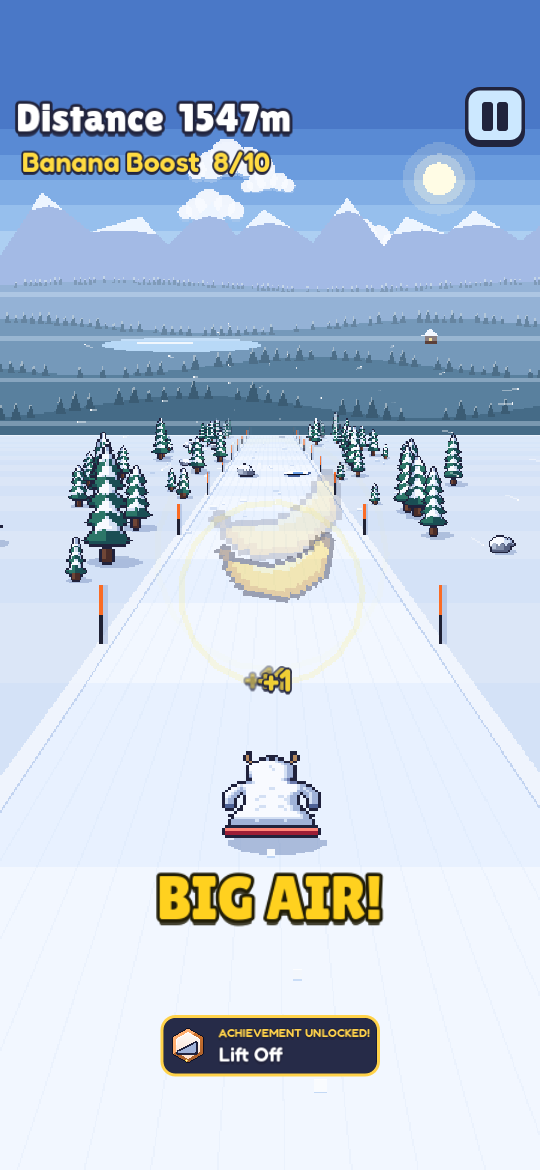
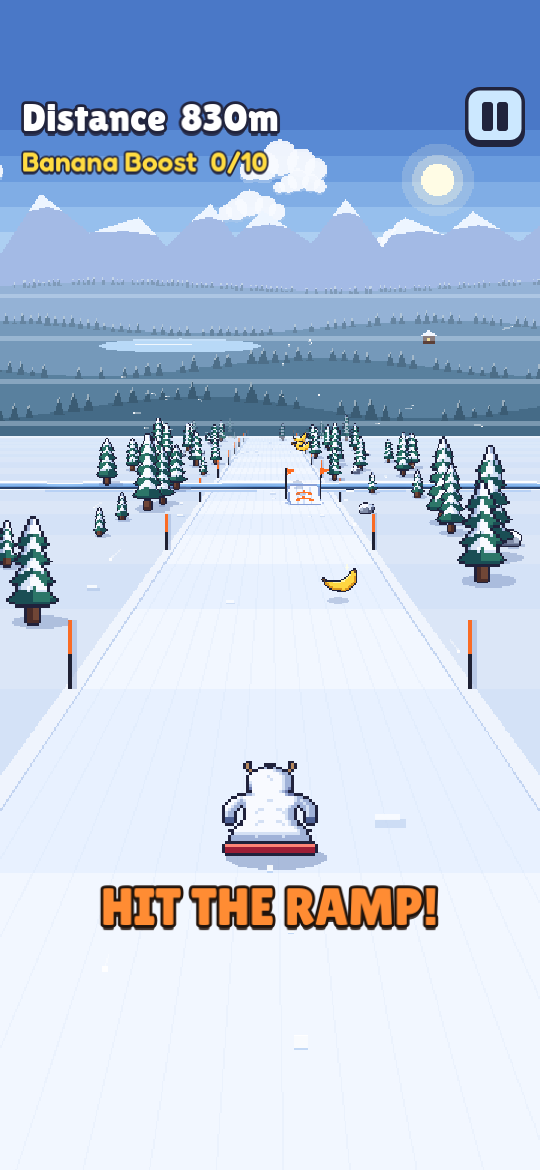
Cleaner screenshots: no pickup effects or popups (ramp set piece up top, one hole below)

diff --git a/index.html b/index.html
@@ -51,14 +51,14 @@
         <p class="pitch">A pixel-art downhill runner for iPhone and Android. Tap left, tap right, try not to hit the tree.</p>
         <span class="pill">Coming soon to the App Store &amp; Google Play</span>
       </div>
-      <div class="ha-phone"><img class="pixel" src="img/gameplay_hero.png" alt="Oh Yeti! gameplay: the yeti catching big air off a ramp, grabbing a banana arc" width="540" height="1170"></div>
+      <div class="ha-phone"><img class="pixel" src="img/gameplay_hero.png" alt="Oh Yeti! gameplay: a jump ramp ahead with a banana arc over the crevasse behind it" width="540" height="1170"></div>
     </div>
   </header>
 
   <main>
     <section class="showcase">
       <div class="phone">
-        <img class="pixel" src="img/gameplay.png" alt="Oh Yeti! gameplay: the yeti sledding past a tree toward a hole in the snow" width="540" height="1170">
+        <img class="pixel" src="img/gameplay.png" alt="Oh Yeti! gameplay: the yeti sledding toward a hole in the snow" width="540" height="1170">
       </div>
       <div>
         <h2>One yeti. One sled. One very long hill.</h2>
